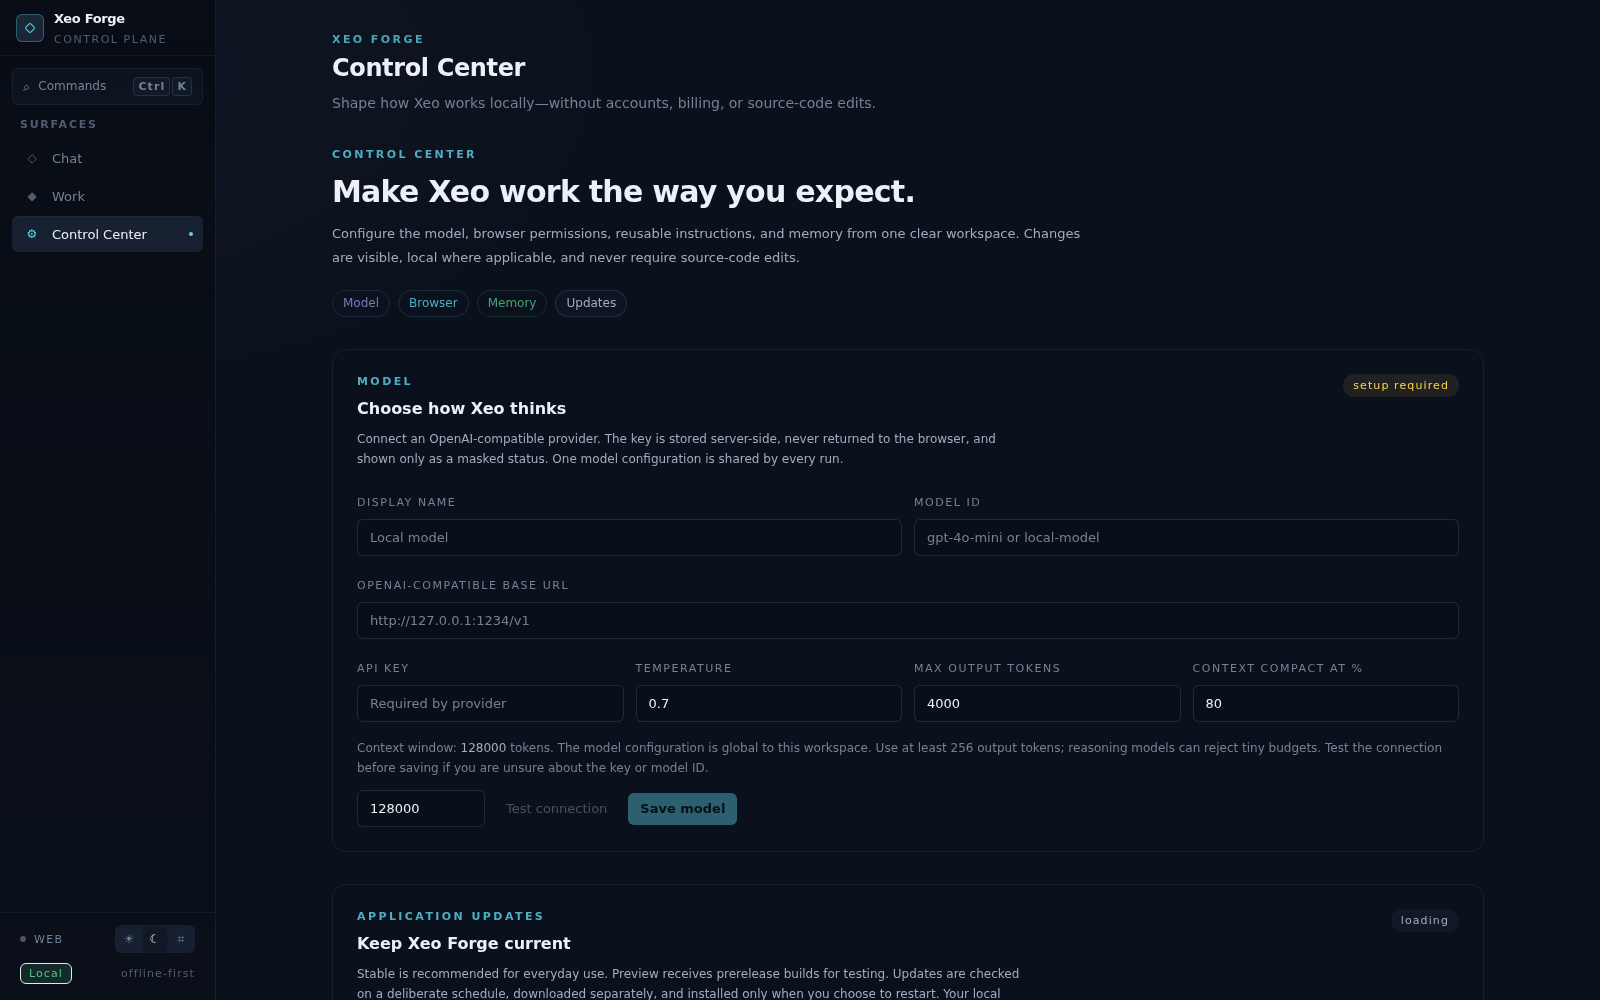
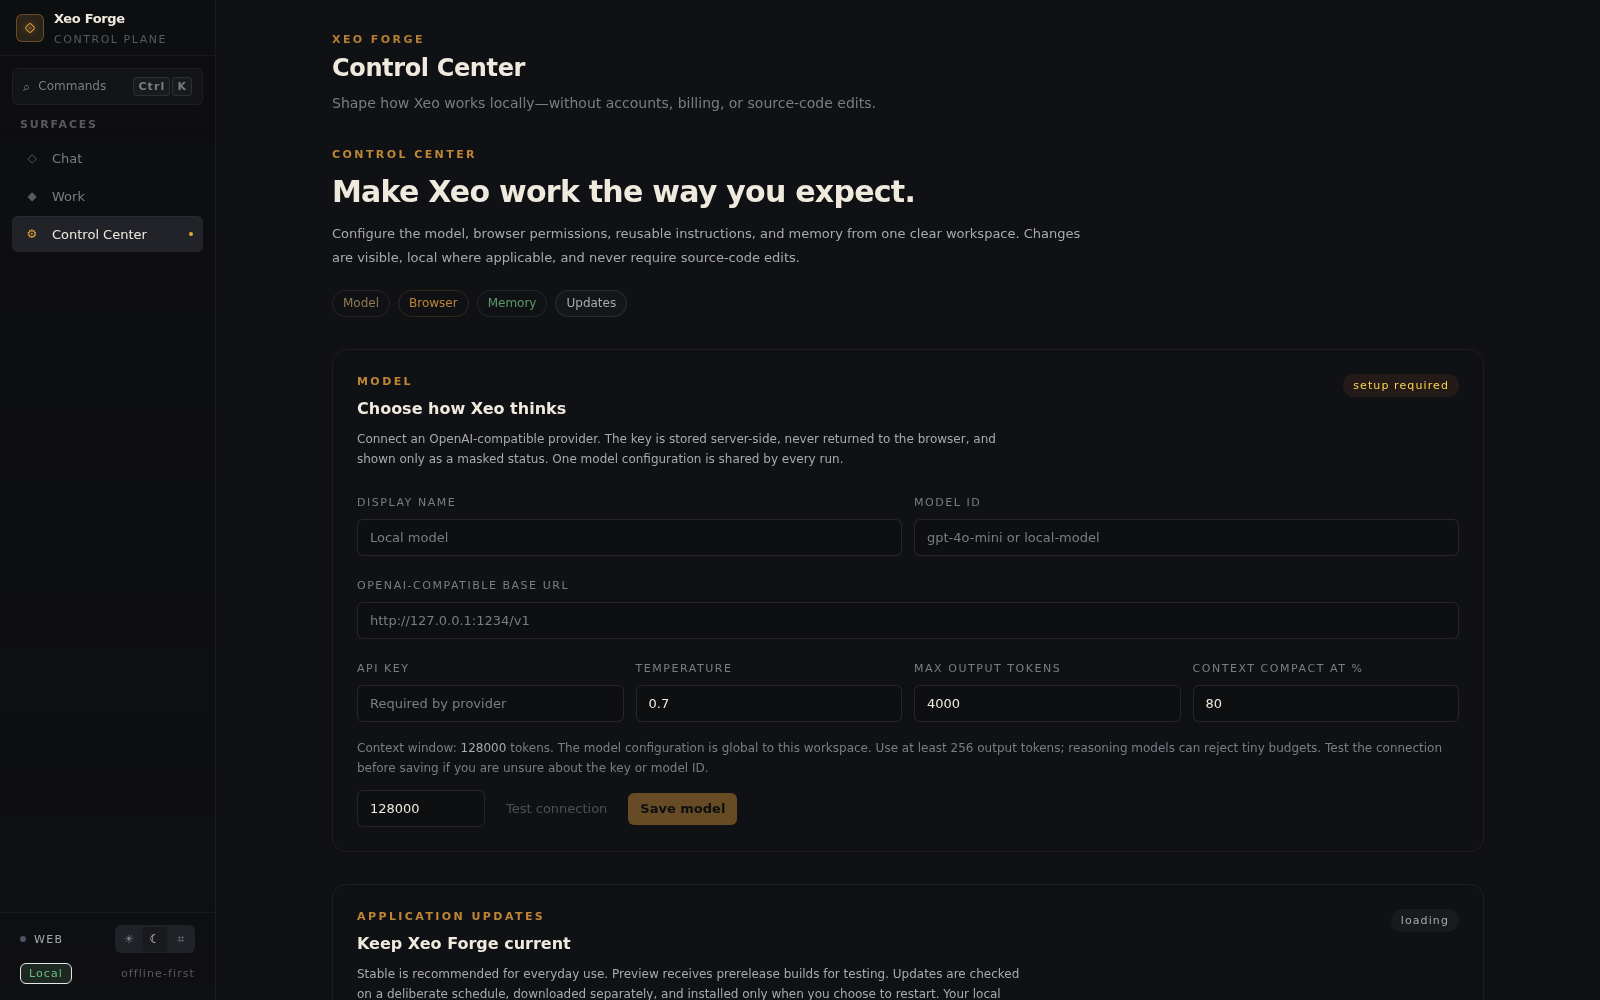
Forge identity: ember palette, heat-thread signature, directional empty states, audit-driven polish
Adopted the frontend-design discipline end to end: token plan grounded in the
product's own world (the forge), self-critique against the generic-AI looks,
independent vision-model review of EVERY surface in BOTH themes, and fixes
driven by what the audits actually said.

IDENTITY (the de-templating move):
- The previous palette was the documented default look #2 (near-black +
  acid cyan) - it read as any AI product. Xeo Forge now owns its own heat:
  warm charcoal surfaces (never blue-black), EMBER ORANGE as the working
  accent (the color of governed heat), copper as secondary warmth,
  hot-metal ivory for decisive text, botanical green / forge red for
  pass/fail where instant recognition matters.
- Light theme recalibrated for the same identity on day-shift steel.

SIGNATURE - the heat-thread:
- A thin ember-to-transparent gradient on surfaces where work is LIVE or a
  decision is being asked: the live terminal badge, the approval gate.
  Cool surfaces stay cool. One aesthetic risk, spent once, used sparingly.
- Brand mark gains an ember core; ember-rule section marks; intake headline
  is a steel-to-ember gradient (de-tuned for light mode per audit).

AUDIT-DRIVEN FIXES (13 screens audited, both themes):
- 'Dead center void' (the #1 repeated finding): the failed run is now an
  incident card with preserved-trail reassurance and an Inspect-the-trail
  action; empty run-log and empty Activity are directional states that
  invite the next action instead of apologizing.
[…]

diff --git a/app/globals.css b/app/globals.css
@@ -14,30 +14,35 @@
 [data-theme='dark'] {
   color-scheme: dark;
 
-  /* Surfaces. Deep, slightly blue, never pure black. Calibrated with more
-     separation between steps than the first pass, which read as flat. */
-  --ink-900: 6 9 15;
-  --ink-800: 11 17 28;
-  --ink-700: 17 25 39;
-  --ink-600: 23 33 50;
-  --ink-500: 32 44 64;
+  /* Surfaces. Forge charcoal: warm-neutral, never blue-black — the shop
+     floor, not a terminal clone. Steps stay close (machined steel) with
+     enough separation for panels to read. */
+  --ink-900: 10 11 13;
+  --ink-800: 16 17 20;
+  --ink-700: 24 26 30;
+  --ink-600: 33 35 41;
+  --ink-500: 45 47 54;
 
-  --line-subtle: 148 175 205;
-  --line: 158 185 215;
-  --line-strong: 176 202 228;
+  /* Lines in the forge are warm steel, not blue glass. */
+  --line-subtle: 160 158 150;
+  --line: 172 170 162;
+  --line-strong: 190 188 180;
 
-  --content-primary: 236 241 248;
-  --content-secondary: 160 173 192;
-  --content-muted: 116 130 150;
-  --content-faint: 82 94 112;
+  /* Content: hot-metal ivory carries the decisive text; the rest is steel. */
+  --content-primary: 240 234 222;
+  --content-secondary: 168 170 175;
+  --content-muted: 122 125 132;
+  --content-faint: 88 90 96;
 
-  /* Signals desaturated from the first pass. Fully saturated cyan on a dark
-     field vibrates and reads as a toy; these hold at small sizes. */
-  --signal-run: 94 214 235;
-  --signal-gate: 232 179 74;
-  --signal-pass: 82 199 132;
-  --signal-fail: 232 116 116;
-  --signal-plan: 154 141 232;
+  /* Signals. THE IDENTITY MOVE: ember orange (the forge, at work) replaces
+     the default-tech cyan. Ember is the accent of HEAT — the thing this
+     product governs. Copper is the secondary warmth; pass/fail stay
+     botanical green and forge-red for instant, learned recognition. */
+  --signal-run: 232 163 61;
+  --signal-gate: 217 108 63;
+  --signal-pass: 108 190 124;
+  --signal-fail: 224 96 84;
+  --signal-plan: 178 148 96;
 
   /* Diff colours are their OWN tokens rather than aliases of signal-pass/fail.
      A diff is not a pass/fail judgement — an added line is not "good" — and the
@@ -46,10 +51,10 @@
      desaturated hue would disappear. Green/red rather than the theme accent
      because every diff tool a developer already knows uses green/red, and
      inventing a house convention here would cost recognition for nothing. */
-  --diff-add: 74 190 128;
-  --diff-del: 226 106 106;
+  --diff-add: 96 186 122;
+  --diff-del: 226 104 92;
 
-  --on-signal: 6 9 15;
+  --on-signal: 12 11 9;
   --shadow-color: 0 0 0;
 
   --line-subtle-a: 0.09;
@@ -72,9 +77,9 @@
   --ink-600: 255 255 255;
   --ink-500: 226 232 241;
 
-  --line-subtle: 30 47 74;
-  --line: 30 47 74;
-  --line-strong: 30 47 74;
+  --line-subtle: 46 44 40;
+  --line: 46 44 40;
+  --line-strong: 46 44 40;
 
   /* Darker than the first pass. 71 85 105 on a near-white panel is 4.3:1,
      under AA for body text; these clear it. */
@@ -83,13 +88,13 @@
   --content-muted: 88 102 124;
   --content-faint: 130 144 164;
 
-  /* Darkened for contrast against white; the dark-theme values fail WCAG AA
-     as text on a light field. */
-  --signal-run: 12 130 155;
-  --signal-gate: 166 106 12;
-  --signal-pass: 22 133 74;
-  --signal-fail: 190 52 52;
-  --signal-plan: 99 76 200;
+  /* Day-shift forge: ember holds as deep amber; copper reads as burnt
+     sienna. Both clear AA on the light steel panels. */
+  --signal-run: 176 108 22;
+  --signal-gate: 156 74 44;
+  --signal-pass: 26 128 66;
+  --signal-fail: 186 48 40;
+  --signal-plan: 128 100 52;
 
   /* Darker and less saturated than the dark-theme pair: on a near-white panel
      the dark values read as neon, and the +/- gutter glyphs are text so they
@@ -157,19 +162,22 @@ body {
    One very restrained ambient gradient. The runtime provides the movement in
    this product; the background must not compete with it. */
 
+/* Ambient: the forge's heat lives low and to one side — an ember glow, not
+   a tech-grid aurora. Barely present; it should feel like standing near
+   something warm, not like a landing page. */
 .app-shell {
   position: relative;
   isolation: isolate;
   background:
-    radial-gradient(ellipse 72rem 34rem at 82% -14%, rgb(var(--signal-run) / 0.05), transparent 68%),
-    radial-gradient(ellipse 52rem 30rem at 4% 2%, rgb(var(--signal-plan) / 0.035), transparent 68%),
+    radial-gradient(ellipse 60rem 30rem at 88% -12%, rgb(var(--signal-run) / 0.07), transparent 62%),
+    radial-gradient(ellipse 44rem 26rem at -6% 106%, rgb(var(--signal-gate) / 0.05), transparent 60%),
     rgb(var(--ink-800));
 }
 
 [data-theme='light'] .app-shell {
   background:
-    radial-gradient(ellipse 72rem 34rem at 82% -14%, rgb(var(--signal-run) / 0.06), transparent 66%),
-    radial-gradient(ellipse 52rem 30rem at 4% 2%, rgb(var(--signal-plan) / 0.045), transparent 66%),
+    radial-gradient(ellipse 60rem 30rem at 88% -12%, rgb(var(--signal-run) / 0.08), transparent 60%),
+    radial-gradient(ellipse 44rem 26rem at -6% 106%, rgb(var(--signal-gate) / 0.05), transparent 58%),
     rgb(var(--ink-800));
 }
 
@@ -598,4 +606,71 @@ body {
   box-shadow:
     0 1px 2px rgb(var(--shadow-color) / 0.06),
     0 12px 32px -12px rgb(var(--shadow-color) / 0.18);
+}
+
+/* ── THE SIGNATURE: the heat-thread ─────────────────────────────────
+   A thin horizontal gradient (ember → transparent) placed on surfaces
+   where work is LIVE or where a decision is being asked. It is the
+   product's one aesthetic risk: heat means activity, cool means idle.
+   Used on: the live terminal tab, the approval gate, active runs, the
+   composer while focused. Nowhere else — restraint is what makes it
+   read. */
+.heat-thread {
+  position: relative;
+}
+.heat-thread::after {
+  content: '';
+  position: absolute;
+  left: 0;
+  right: 0;
+  bottom: -1px;
+  height: 2px;
+  border-radius: 999px;
+  background: linear-gradient(90deg,
+    rgb(var(--signal-run) / 0.9),
+    rgb(var(--signal-gate) / 0.55) 45%,
+    transparent 85%);
+  pointer-events: none;
+}
+
+/* Static ember rule — for section breaks where heat has cooled: a shorter,
+   quieter mark that pairs with uppercase labels. */
+.ember-rule {
+  height: 2px;
+  width: 2.5rem;
+  border-radius: 999px;
+  background: linear-gradient(90deg, rgb(var(--signal-run) / 0.7), transparent);
+}
+
+/* The brand mark heats up: diamond stays, gains the ember core. */
+.brand-mark span {
+  width: 0.5rem;
+  height: 0.5rem;
+  border: 1.5px solid rgb(var(--signal-run));
+  border-radius: 0.125rem;
+  transform: rotate(45deg);
+  background: radial-gradient(circle at 50% 50%, rgb(var(--signal-run) / 0.5), transparent 70%);
+  box-shadow: 0 0 6px rgb(var(--signal-run) / 0.25);
+}
+
+/* Headline flame: steel-to-ember gradient. In dark it glows like hot metal;
+   in light it degrades to a deep amber that keeps AA presence without
+   shouting (fixes the 'too heavy ember in light mode' audit note). */
+.intake-flame {
+  background: linear-gradient(100deg,
+    rgb(var(--content-secondary)),
+    rgb(var(--signal-run)) 65%,
+    rgb(var(--signal-gate)));
+  -webkit-background-clip: text;
+  background-clip: text;
+  color: transparent;
+}
+
+[data-theme='light'] .intake-flame {
+  background: linear-gradient(100deg,
+    rgb(var(--content-secondary)),
+    rgb(var(--signal-run)));
+  -webkit-background-clip: text;
+  background-clip: text;
+  color: transparent;
 }

diff --git a/app/work/WorkClient.tsx b/app/work/WorkClient.tsx
@@ -520,11 +520,16 @@ export default function WorkClient({
               <div ref={logRef} onScroll={onLogScroll} className="min-h-0 flex-1 overflow-y-auto">
                 <div className="mx-auto w-full max-w-3xl px-4 py-6">
                   {timeline.length === 0 && !isRunning ? (
-                    <EmptyState
-                      icon={<span aria-hidden="true">⚙</span>}
-                      title="No activity yet"
-                      description="This run has not produced any events."
-                    />
+                    <div className="run-empty mx-auto mt-16 flex max-w-md flex-col items-center text-center">
+                      <span className="flex h-12 w-12 items-center justify-center rounded-panel border border-line-subtle bg-ink-900/60" aria-hidden="true">
+                        <span className="ember-rule" />
+                      </span>
+                      <h3 className="mt-5 text-title font-semibold text-content-primary">Nothing has run yet</h3>
+                      <p className="mt-2 text-body leading-6 text-content-muted">
+                        Describe the change below and start a planning run. The agent inspects read-only first —
+                        you approve before anything is written.
+                      </p>
+                    </div>
                   ) : (
                     <div className="space-y-5">
                       {timeline.map((turn) => (
@@ -578,8 +583,23 @@ export default function WorkClient({
                   )}
 
                   {status === 'failed' && errorMessage && (
-                    <div className="mt-5">
-                      <Alert tone="error" title="Run failed">{errorMessage}</Alert>
+                    <div className="run-failure mt-6 rounded-panel border border-signal-fail/25 bg-signal-fail/[0.05] p-5">
+                      <div className="flex items-center gap-2.5">
+                        <span className="flex h-7 w-7 shrink-0 items-center justify-center rounded-control bg-signal-fail/15 text-ui text-signal-fail" aria-hidden="true">✕</span>
+                        <p className="text-ui font-semibold text-content-primary">Run failed</p>
+                      </div>
+                      <p className="mt-2.5 max-w-2xl text-body leading-6 text-content-secondary">{errorMessage}</p>
+                      <div className="mt-4 flex flex-wrap items-center gap-3 border-t border-signal-fail/15 pt-3.5">
+                        <p className="text-meta text-content-muted">Every step before the failure is preserved in the Activity tab — nothing was lost.</p>
+                        <span className="flex-1" />
+                        <button
+                          type="button"
+                          onClick={() => setTab('activity')}
+                          className="rounded-control border border-line-subtle px-3 py-1.5 text-meta font-medium text-content-secondary transition hover:border-line-strong hover:text-content-primary"
+                        >
+                          Inspect the trail
+                        </button>
+                      </div>
                     </div>
                   )}
                 </div>

diff --git a/components/ExecutionTimeline.tsx b/components/ExecutionTimeline.tsx
@@ -114,10 +114,16 @@ export function ExecutionTimeline({ events }: { events: ParsedEvent[] }) {
 
   if (allRows.length === 0) {
     return (
-      <p className="px-3 py-6 text-ui leading-5 text-content-muted">
-        No activity recorded yet. Tool calls, context compilation, file changes, and verification
-        results appear here as they happen.
-      </p>
+      <div className="flex h-full flex-col items-center justify-center px-6 py-12 text-center">
+        <span className="flex h-12 w-12 items-center justify-center rounded-panel border border-line-subtle bg-ink-900/60" aria-hidden="true">
+          <span className="ember-rule" />
+        </span>
+        <h3 className="mt-5 text-title font-semibold text-content-primary">The trail starts with the first action</h3>
+        <p className="mt-2 max-w-sm text-body leading-6 text-content-muted">
+          Tool calls, context compilation, file changes, and verification results appear here
+          as they happen — every step persisted and replayable.
+        </p>
+      </div>
     );
   }
 

diff --git a/components/WorkPrimitives.tsx b/components/WorkPrimitives.tsx
@@ -193,11 +193,12 @@ export function DecisionGate({
 }) {
   const urgent = seconds <= 10;
   return (
-    <div className="border-b border-signal-plan/20 bg-signal-plan/07 px-4 py-4">
+    <div className="heat-thread relative border-b border-signal-run/20 bg-signal-run/[0.06] px-4 py-4">
       <div className="flex flex-wrap items-start justify-between gap-4">
         <div className="min-w-0">
           <div className="flex items-center gap-2">
-            <p className="text-meta font-semibold uppercase tracking-[0.16em] text-signal-plan/90">
+            <span className="ember-rule" aria-hidden="true" />
+            <p className="text-meta font-semibold uppercase tracking-[0.16em] text-signal-run">
               This request wants to change your project
             </p>
             <span

diff --git a/components/Terminal.tsx b/components/Terminal.tsx
@@ -312,9 +312,10 @@ export default function Terminal({ taskId, autoKill = true, className = '' }: Te
           Terminal
         </span>
         {phase === 'ready' && (
-          <Badge tone="emerald" dot pulse>
-            live
-          </Badge>
+          <span className="heat-thread inline-flex items-center gap-1.5 pb-0.5">
+            <span className="h-1.5 w-1.5 animate-live-pulse rounded-full bg-signal-run shadow-[0_0_8px_rgb(var(--signal-run)/0.8)]" aria-hidden="true" />
+            <span className="text-micro font-semibold uppercase tracking-[0.14em] text-signal-run">live</span>
+          </span>
         )}
         {phase === 'connecting' && (
           <Badge tone="cyan">

diff --git a/components/AppShell.tsx b/components/AppShell.tsx
@@ -176,7 +176,7 @@ export default function AppShell({
           <div className="flex items-center justify-between px-2 pb-2.5">
             <span
               title={runtime === 'native' ? 'Go runtime broker connected' : 'Running in web mode'}
-              className="flex items-center gap-2 text-micro uppercase tracking-[0.12em] text-content-muted"
+              className="flex items-center gap-2 text-micro font-medium uppercase tracking-[0.12em] text-content-secondary"
             >
               <span
                 className={cx(

diff --git a/app/work/WorkIntake.tsx b/app/work/WorkIntake.tsx
@@ -162,7 +162,7 @@ export default function WorkIntake({
             </span>
             <h1 className="mt-5 text-[2rem] font-semibold leading-[1.15] tracking-tight text-content-primary sm:text-[2.5rem]">
               Describe the outcome.
-              <span className="block bg-gradient-to-r from-signal-plan via-signal-run to-signal-run bg-clip-text text-transparent">
+              <span className="intake-flame block">
                 Approve the plan.
               </span>
             </h1>

diff --git a/components/ui.tsx b/components/ui.tsx
@@ -218,7 +218,7 @@ const BADGE_TONES: Record<BadgeTone, string> = {
   violet: 'bg-signal-plan/15 text-signal-plan',
   amber: 'bg-signal-gate/15 text-signal-gate',
   emerald: 'bg-signal-pass/15 text-signal-pass',
-  red: 'bg-signal-fail/15 text-signal-fail',
+  red: 'bg-signal-fail/15 text-[rgb(var(--signal-fail))] font-medium',
 };
 
 export function Badge({
